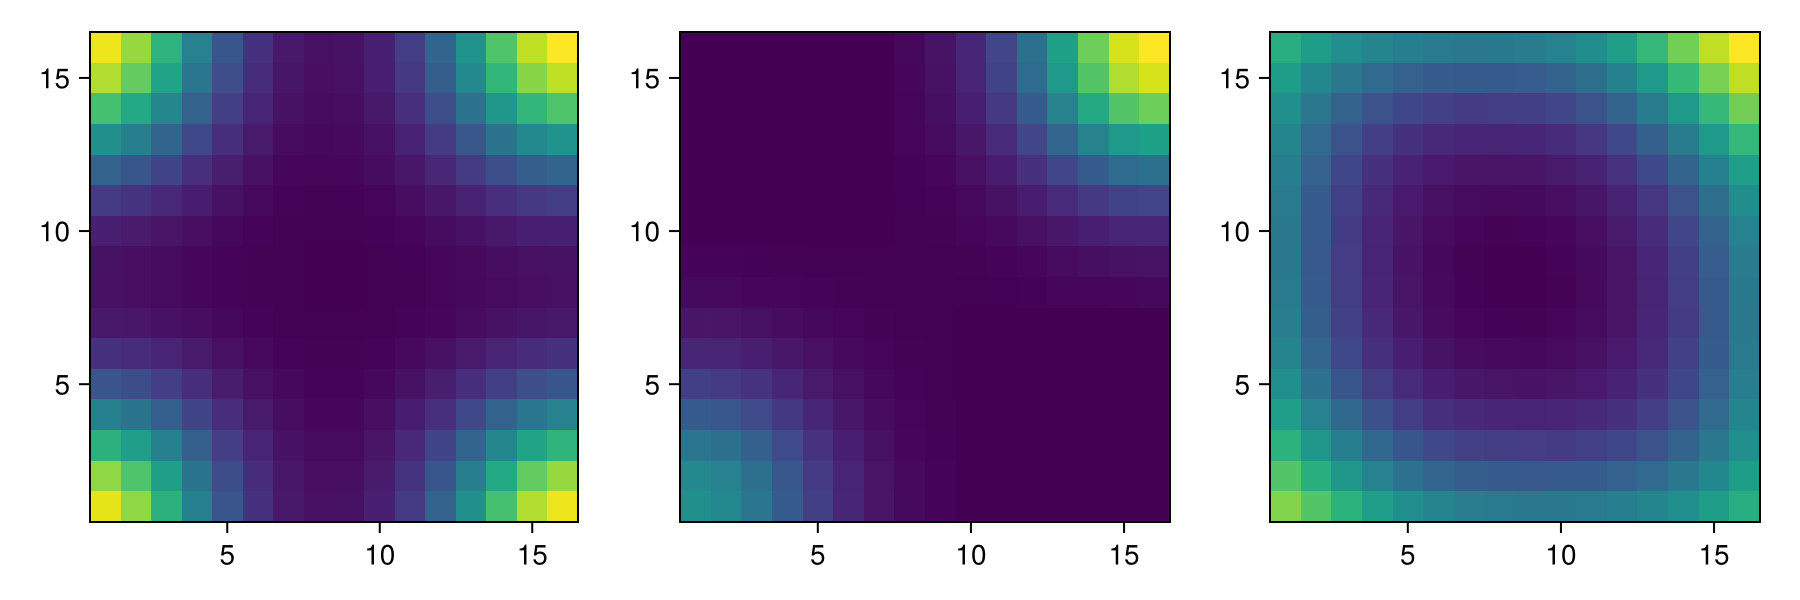
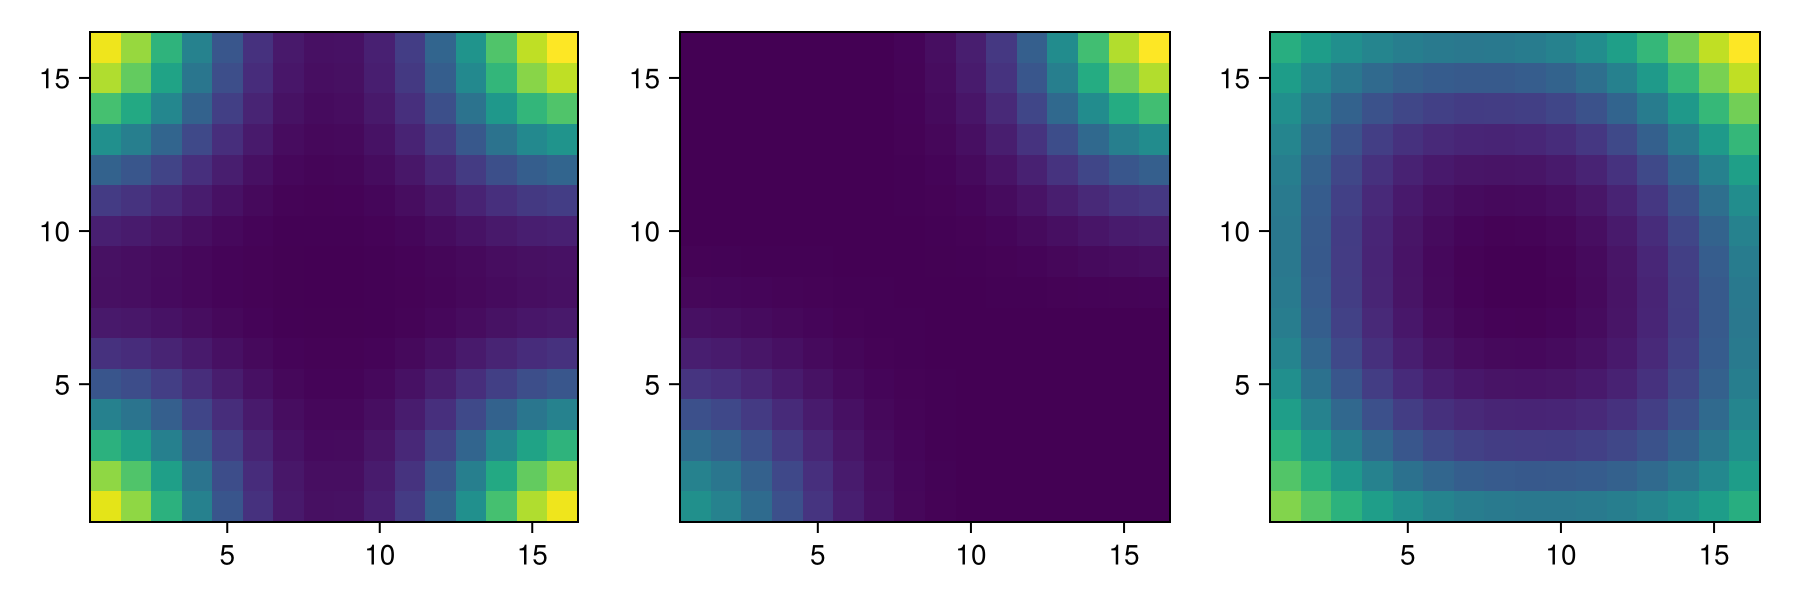
fix issues with BoundaryTrait code, uncovered by replotting stencil plots

Changed region(s): [[0.56, 0.03, 0.6533, 0.27]]

diff --git a/docs/src/ca-with-production.md b/docs/src/ca-with-production.md
@@ -92,7 +92,7 @@ In the case `write_interval` is not one, we will sum production rates over sever
 Each iteration of the model, we produce a `Frame`.
 
 ``` {.julia #ca-prod-frame}
-struct Frame
+struct ProductFrame
     production::Array{Float64,3}
 end
 ```
@@ -120,19 +120,15 @@ $$U: (S, \Delta) \to S.$$
 
 In practice however, the update function changes the state in-place.
 
-``` {.julia file=src/ForwardModel.jl}
-module ForwardModel
-
+``` {.julia #ca-prod-model}
 function run(state, propagator, updater)
-    Channel{Frame}() do ch
+    Channel{ProductFrame}() do ch
         while true
             Δ = p(state)
             put!(ch, Δ)
             u(state, Δ)
         end
     end
-end
-
 end
 ```
 
@@ -196,7 +192,7 @@ Every iteration we update the height variable with the subsidence rate, and add 
 ``` {.julia #ca-prod-model}
 function updater(input::Input)
     n_facies = length(input.facies)
-    function (s::State, Δ::Frame)
+    function (s::State, Δ::ProductFrame)
         s.height .-= sum(Δ.production; dims=3) .* input.Δt
         s.height .+= input.subsidence_rate * input.Δt
         s.time += input.Δt
@@ -211,7 +207,7 @@ function run_model(input::Input)
     s = initial_state(input)
     p = propagator(input)
     u = updater(input)
-    ForwardModel.run(s, p, u)
+    run(s, p, u)
 end
 ```
 
@@ -223,7 +219,6 @@ using ..Utility
 # using CarboKitten.BS92: sealevel_curve
 using ..Stencil
 using ..Burgess2013
-using ..ForwardModel
 
 using HDF5
 using .Iterators: drop, peel, partition, map, take
@@ -234,8 +229,8 @@ using .Iterators: drop, peel, partition, map, take
 <<ca-prod-propagator>>
 <<ca-prod-model>>
 
-function stack_frames(fs::Vector{Frame})  # -> Frame
-    Frame(sum(f.production for f in fs))
+function stack_frames(fs::Vector{ProductFrame})  # -> Frame
+    ProductFrame(sum(f.production for f in fs))
 end
 
 function main(input::Input, output::String)

diff --git a/docs/src/boxes.md b/docs/src/boxes.md
@@ -145,13 +145,13 @@ end
 For both `Periodic` and `Reflected` boundaries it is also possible to write a function that makes any coordinate within bounds. This uses the fact that reflected boundaries are also periodic for a box twice the size.
 
 ``` {.julia #canonical-coordinates}
-function canonical(::Type{Periodic{2}}, shape::NTuple{dim,Int}, i::CartesianIndex) where {dim}
+function canonical(::Type{Periodic{dim}}, shape::NTuple{dim,Int}, i::CartesianIndex) where {dim}
     CartesianIndex(mod1.(Tuple(i), shape)...)
 end
 
-function canonical(::Type{Reflected{2}}, shape::NTuple{dim,Int}, i::CartesianIndex) where {dim}
+function canonical(::Type{Reflected{dim}}, shape::NTuple{dim,Int}, i::CartesianIndex) where {dim}
     modflip(a, l) = let b = mod1(a, 2l)
-        b > l ? 2l - b : b
+        b > l ? 2l - b + 1 : b
     end
     CartesianIndex(modflip.(Tuple(i), shape)...) 
 end

diff --git a/docs/src/stencils.md b/docs/src/stencils.md
@@ -82,11 +82,8 @@ The rest of the script is bookkeeping
 #| requires: src/Stencil.jl
 #| collect: figures
 
-using CarboKitten.BoundaryTrait
-using CarboKitten.Stencil
-using GLMakie
-
 module ECA
+    using CarboKitten.BoundaryTrait
     using CarboKitten.Stencil
     using CairoMakie
 
@@ -104,7 +101,7 @@ module ECA
     end
 
     function plot()
-        fig = Figure(resolution=(1200,400))
+        fig = Figure(size=(1200,400))
         for (idx, r) in enumerate([18, 30, 110])
             ax = Axis(fig[1,idx]; title="rule $(r)", yreversed=true, limits=((1, 256), (1, 128)))
             heatmap!(ax, eca(r, 256, 128); colormap=:Blues)
